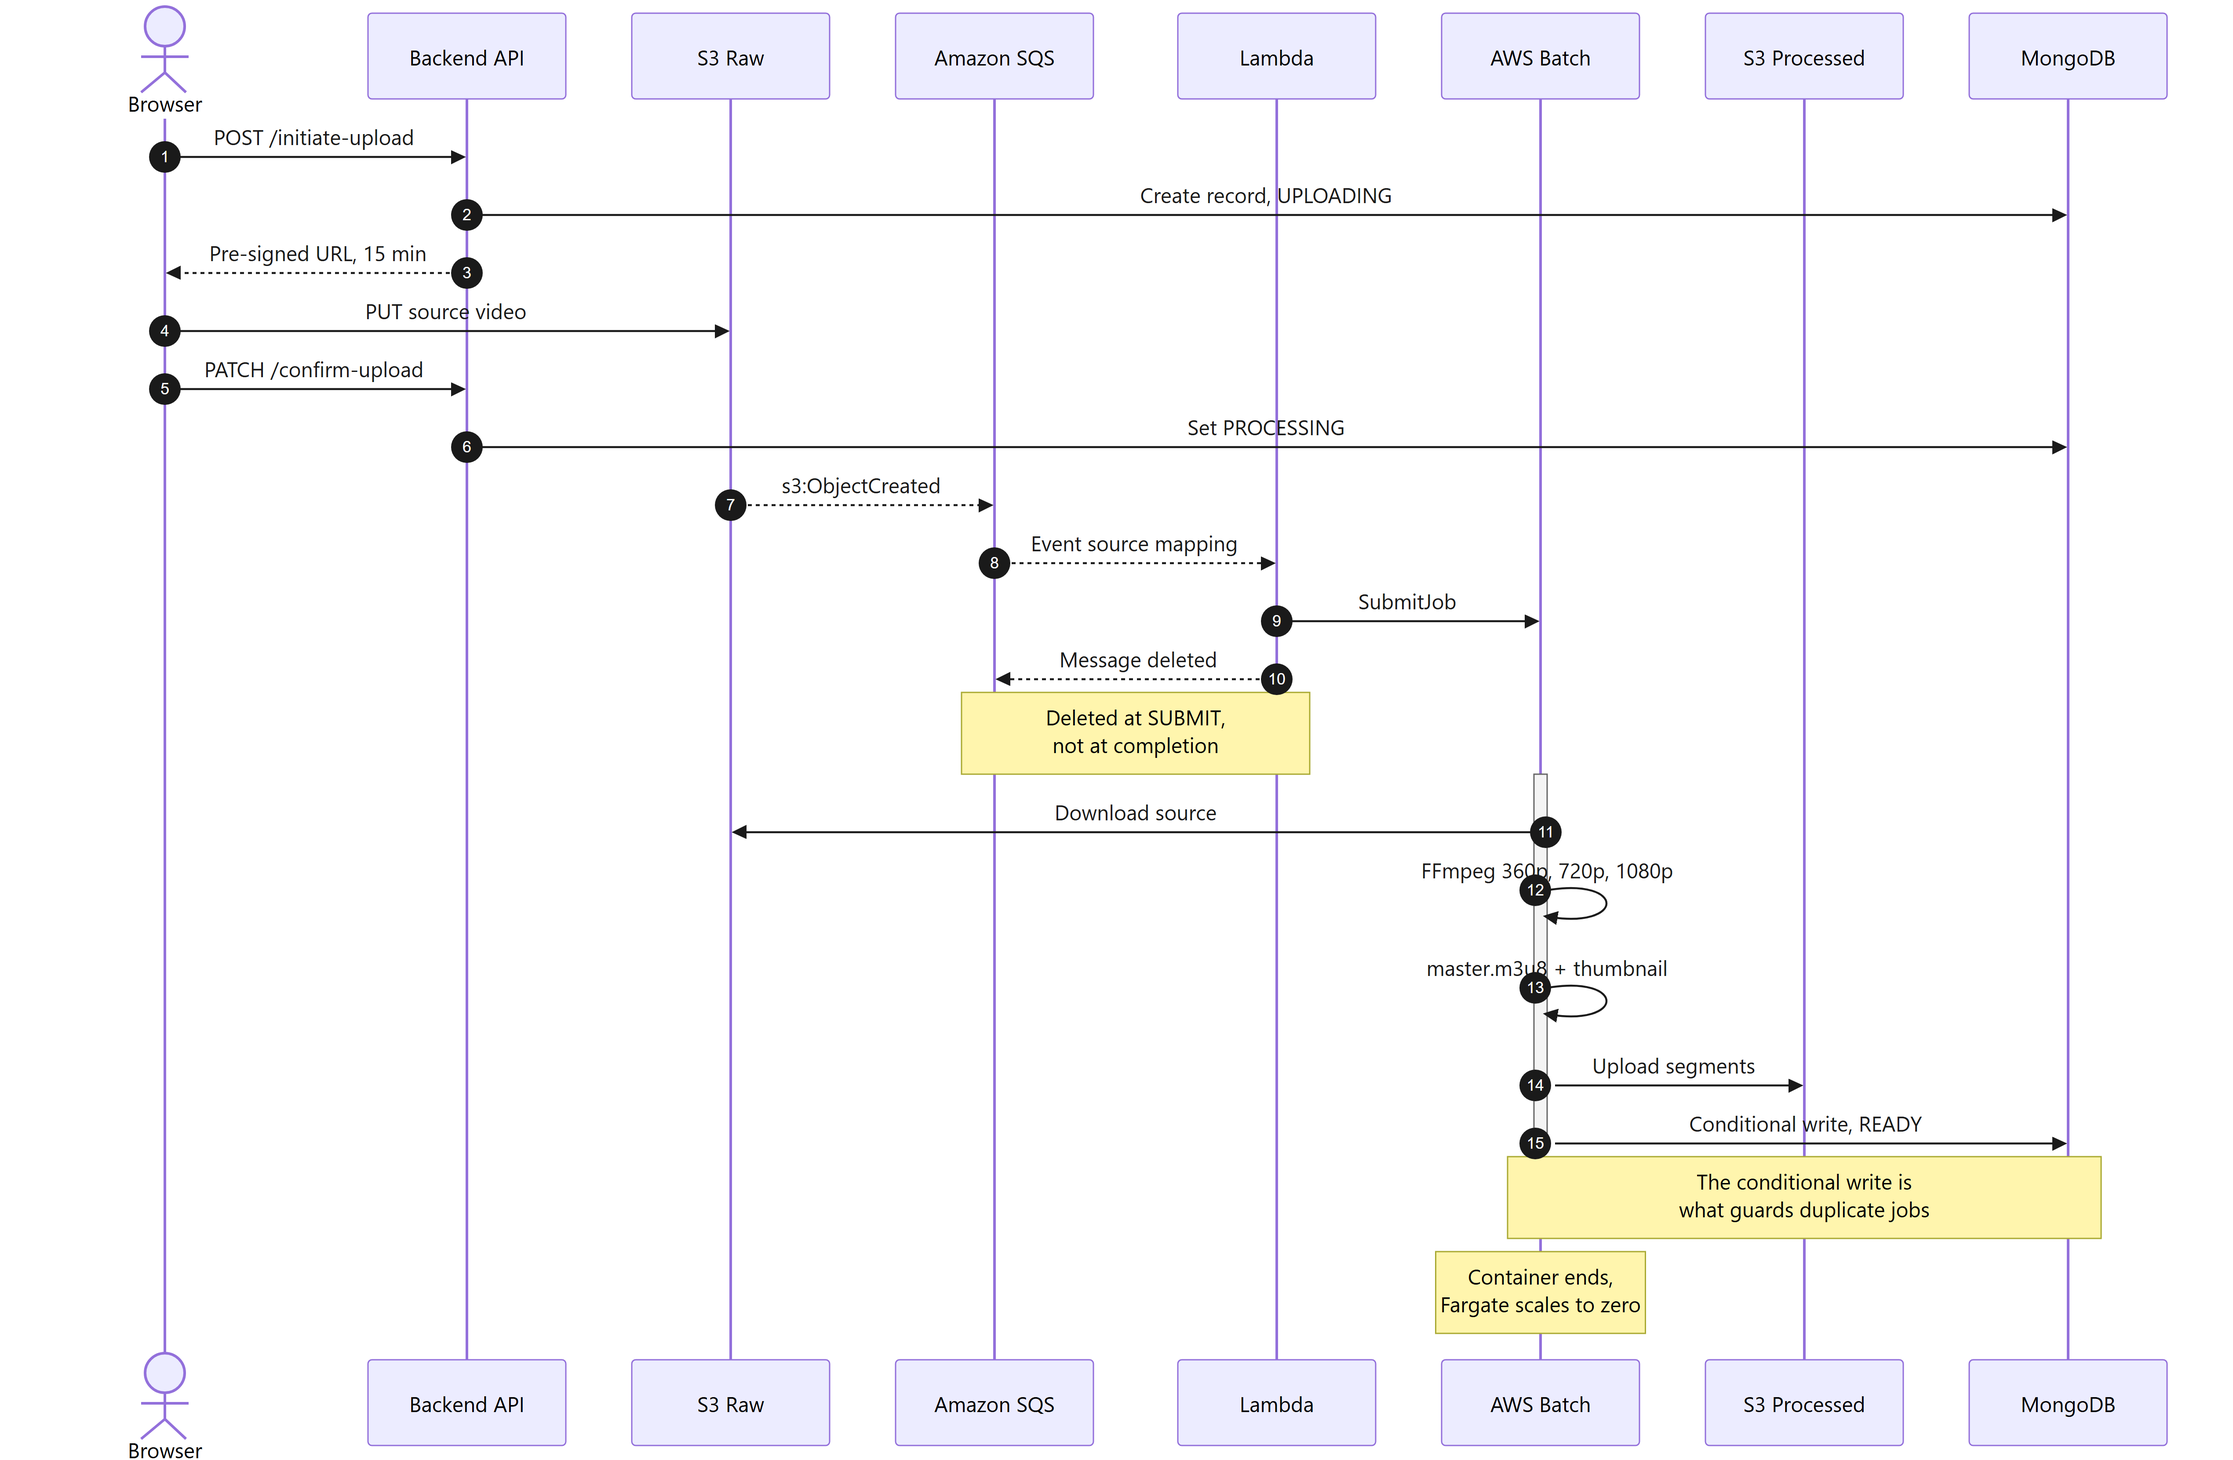
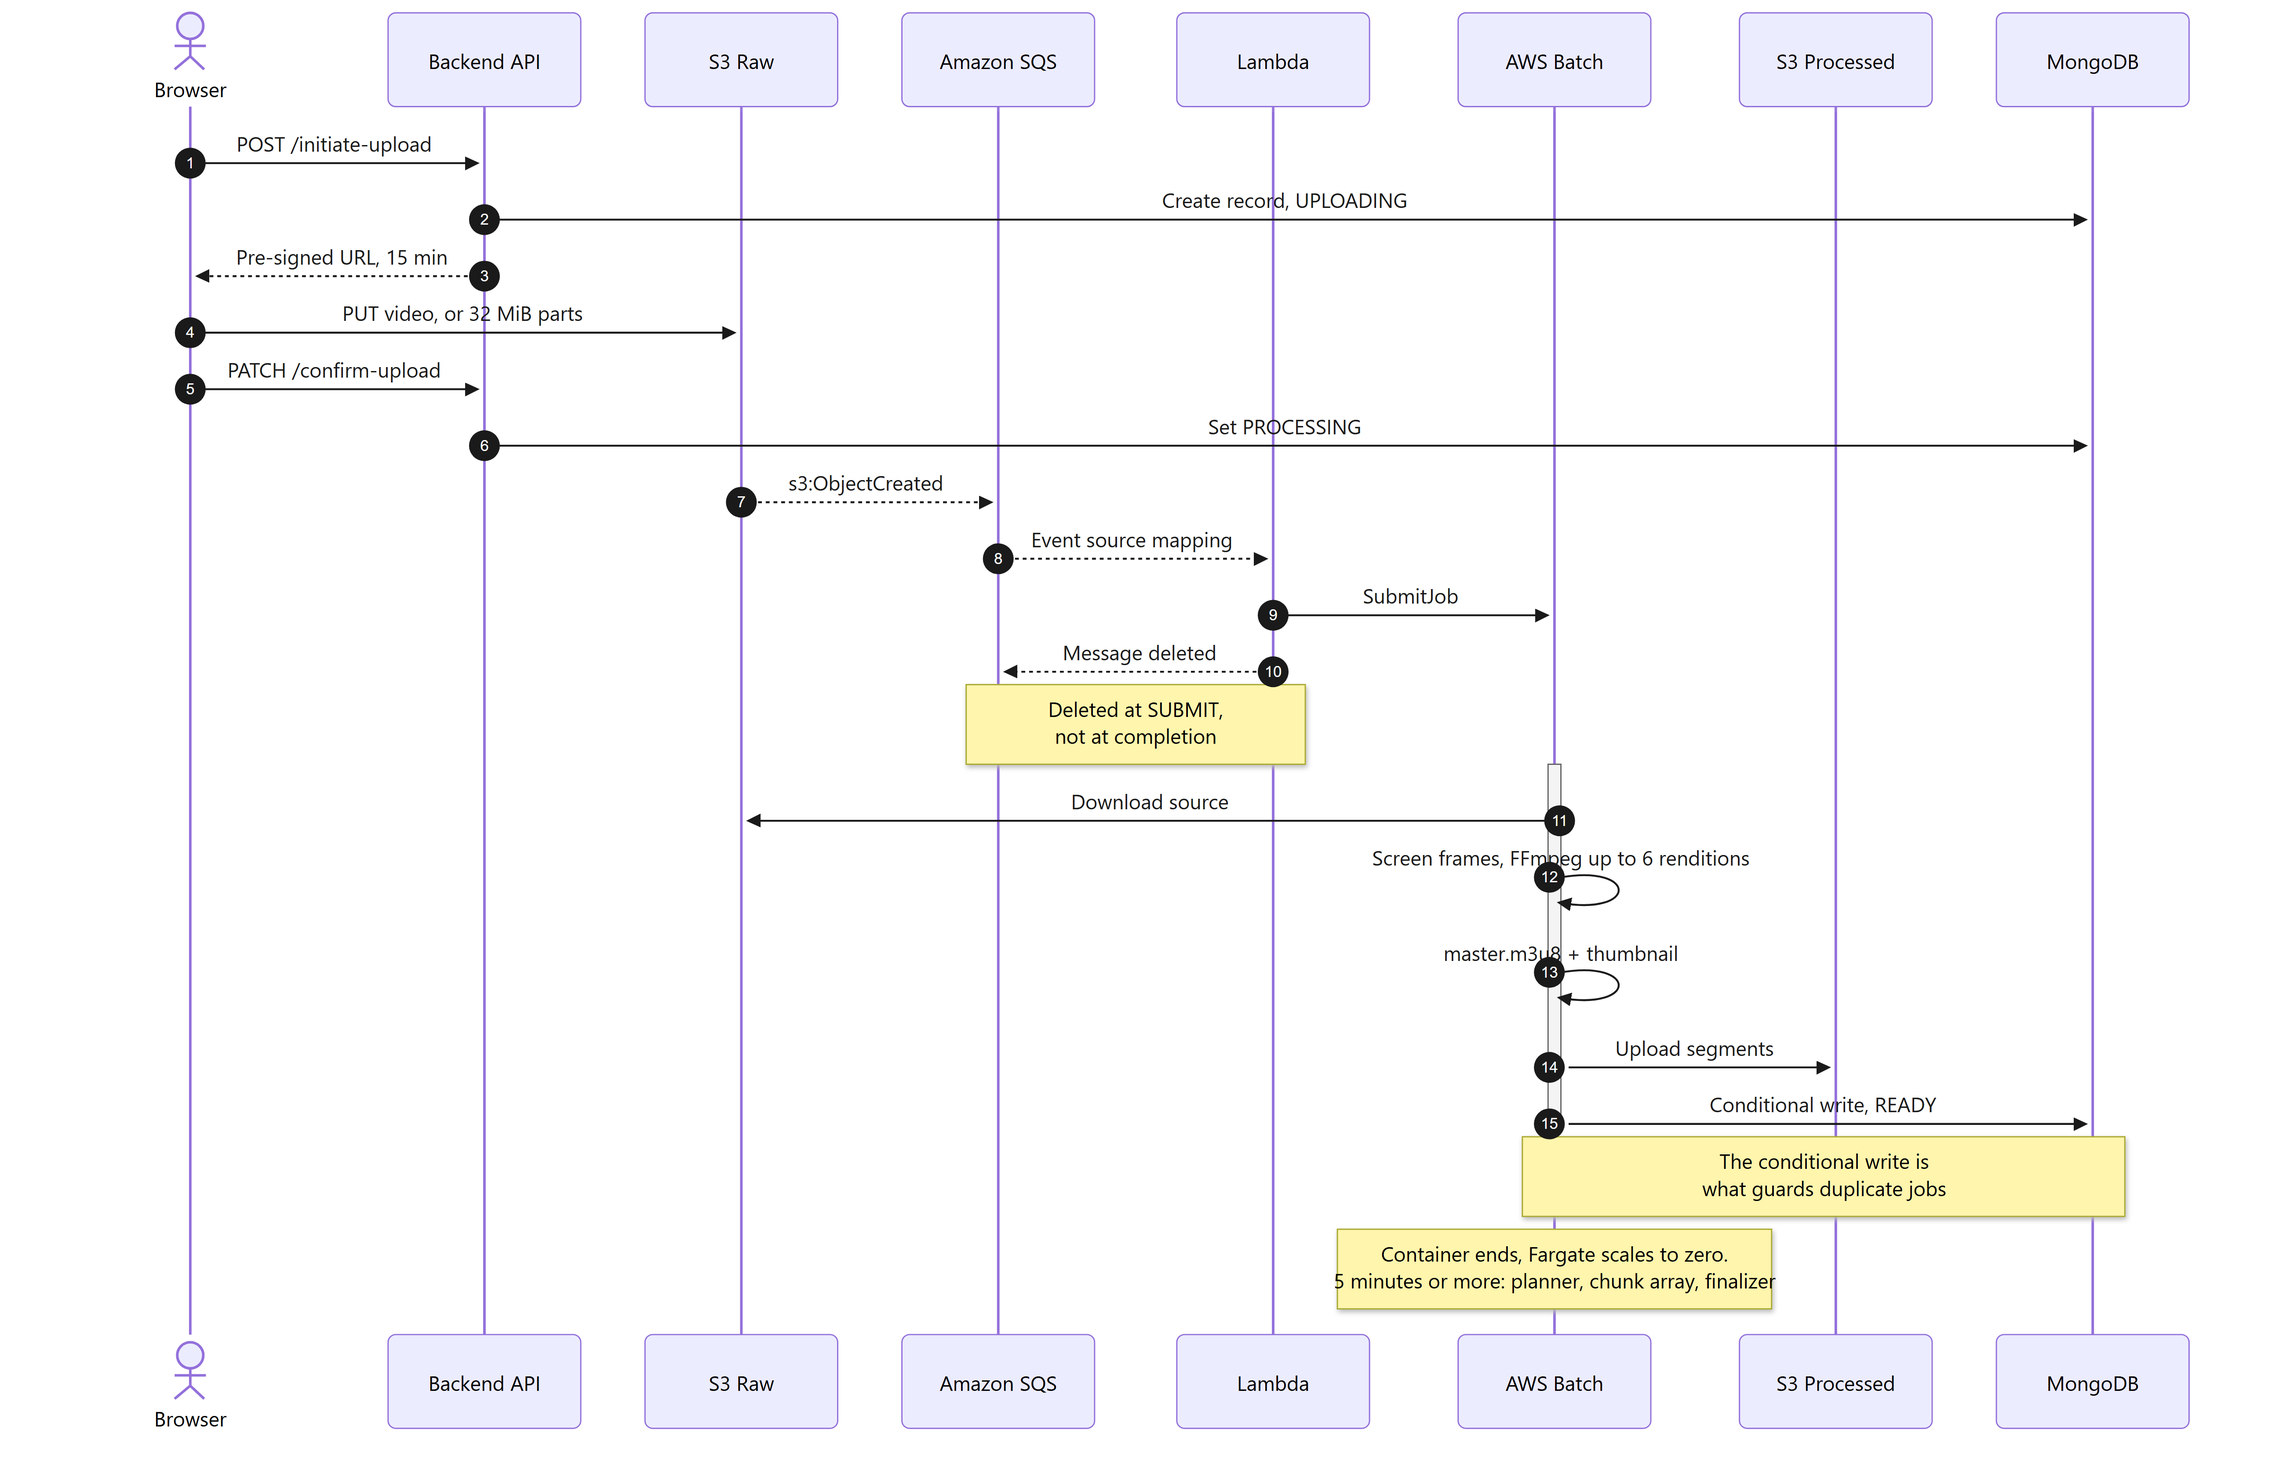
docs(report): multipart upload and the chunked transcoding path in chapters 3, 4 and 5
The report described one container per video and a single pre-signed
upload capped at two gigabytes. Chapter 4 gains subsections on large
uploads and on the planner, audio, chunk and finalizer jobs (with a
table of the four job types); chapter 5 gains the matching
implementation paragraphs and the real upload ceiling. FR-03 and UC-07
mention the multipart path, the sequence diagram shows screening, six
renditions and the chunked path, and the abstract and chapter 1 state
the long-video result (135 minutes for four hours at 8 vCPU).

diff --git a/report/chapters/chap4.tex b/report/chapters/chap4.tex
@@ -41,7 +41,8 @@ initiates an upload until the video becomes available.
 \begin{sidewaysfigure}
 \centering
 \includegraphics[width=\textheight]{images/02-transcoding-sequence.png}
-\caption{\textit{Sequence diagram of the event-driven transcoding pipeline}}
+\caption{\textit{Sequence diagram of the event-driven transcoding pipeline for one container;
+a video of five minutes or more takes the chunked path of Table~\ref{tab:chunked-jobs}}}
 \label{fig:sequence}
 \end{sidewaysfigure}
 
@@ -88,6 +89,75 @@ Batch. Recording which of the two modes the evaluated system actually executes m
 because a mechanism present in the source but absent from the deployed path cannot be credited
 with the guarantees it would provide if it ran. Section~\ref{sec:challenges} draws the same
 distinction about content protection.
+
+\subsection{Upload of Large Files}
+\label{sec:upload-design}
+
+The sequence of Figure~\ref{fig:sequence} uses one pre-signed request, which suits files up to a
+few hundred megabytes. For larger files the design switches to a multipart upload, because a single
+transfer that fails near its end must be repeated in full and Amazon S3 accepts at most 5~GiB in one
+request. The backend chooses the path from the declared size: a file of up to 512~MiB is sent with
+one pre-signed POST, and a larger file is divided into parts of 32~MiB.
+
+Both paths keep the property that motivated direct upload, that the payload never passes through
+the application server, and both keep the limits enforced by the storage service and not by the
+client. For the single request, the signed policy fixes the object key, the content type and the
+size range. For a multipart upload the backend signs one URL per part for exactly that part's
+length, so S3 itself refuses a part of any other size, and when the client reports the upload
+complete the backend lists the parts that S3 holds and checks them before it asks S3 to assemble
+the object. The ceiling on the size of a file is a configuration value, with a hard limit of
+20~GiB in the source, which is 640 parts of 32~MiB, and 20~GiB in the deployed system. An upload that
+is abandoned is cleaned up in two ways: a lifecycle rule aborts incomplete multipart uploads after
+two days, and a periodic reconciler in the backend removes a draft that has stayed in the
+\texttt{UPLOADING} state for more than a day.
+
+\subsection{Chunk-Parallel Transcoding of Long Videos}
+\label{sec:chunked-design}
+
+The pipeline of Figure~\ref{fig:sequence} gives each video to one container. That is adequate for
+short videos and fails for long ones: on a single vCPU, FFmpeg ran between four and five times
+slower than real time in the measurements of Section~\ref{sec:chunked-evaluation}, so a long source
+would exceed the two-hour limit placed on a job however many vCPUs the account holds. The design
+therefore divides a video of five minutes or more into chunks that are encoded concurrently, and
+keeps the single-container path for shorter videos, where splitting costs more than it saves.
+
+The job that the Lambda submitter starts becomes a planner. It reads the structure of the source
+over HTTP without downloading it and divides the video at boundaries that are whole multiples of a
+six-second group of pictures, counted in frames so that a rate such as 29.97 frames per second does
+not accumulate a fractional error. It then submits the jobs of Table~\ref{tab:chunked-jobs} to the
+same AWS Batch service.
+
+\begin{table}[H]
+\centering
+\caption{Jobs of the chunked path}
+\label{tab:chunked-jobs}
+\small
+\begin{tabularx}{\textwidth}{p{0.14\textwidth} p{0.17\textwidth} p{0.16\textwidth} X}
+\toprule
+\textbf{JOB} & \textbf{COUNT} & \textbf{TASK SIZE} & \textbf{RESPONSIBILITY} \\
+\midrule
+Planner   & 1 & Default & Probes the source, computes the chunk boundaries, and submits the other jobs \\
+Audio     & 2 & Default & Encodes the audio once for the whole video, one job per bitrate (64 and 128~kbit/s) \\
+Chunk     & One per chunk, as an array job & 4~vCPU, 8~GiB & Reads its own range of the source over HTTP and encodes every rendition of the ladder for that range \\
+Finalizer & 1 & Default & Runs after every chunk has ended; joins the playlists, measures the bandwidth of each rendition from the segments, extracts the thumbnail, screens the content, and sets \texttt{READY} \\
+\bottomrule
+\end{tabularx}
+\end{table}
+
+Three properties of this design are deliberate. The chunk array goes to a second, lower-priority
+job queue that shares the Fargate Spot environment of the main queue, so that a short video
+submitted while a long one is encoding is scheduled ahead of its remaining chunks and does not wait
+for all of them. The number of chunks follows the number of tasks that can run at once, about three
+chunks per slot and none shorter than about a minute, so a larger quota produces smaller chunks.
+And the planner declines to split a source that cannot be split safely, which means a variable frame
+rate, an unknown duration, or audio and video that differ by more than 0.25~seconds; such a video
+falls back to the single-container path and is not failed.
+
+While a chunked video is encoding, its child jobs periodically touch the \texttt{updatedAt} field
+of the video. The reconciler that returns a video stuck in \texttt{PROCESSING} for more than six
+hours to a consistent state would otherwise mistake a long and healthy encode for a stuck one. How
+this path behaves, including where adding vCPUs stops helping, is measured in
+Section~\ref{sec:chunked-evaluation}.
 
 \section{Database Design}
 \label{sec:database-design}

diff --git a/report/chapters/chap5.tex b/report/chapters/chap5.tex
@@ -18,7 +18,12 @@ The upload flow validates metadata on the server before issuing a pre-signed URL
 validation alone is insufficient, since a user can call the API directly and obtain a URL for
 an arbitrary file, effectively turning the project's storage bucket into free hosting for
 unrelated content. The server therefore checks the declared MIME type against an allow-list of
-video formats and rejects files exceeding two gigabytes.
+video formats and rejects files above the configured ceiling, which has a hard limit of 20~GiB in
+the source and is set to 20~GiB in the deployed system. Files up to 512~MiB go through a single
+pre-signed POST whose policy fixes the object key, the content type and the size range. Larger
+files use an S3 multipart upload in parts of 32~MiB: the backend signs one URL per part for exactly
+that part's length, so the storage service itself refuses a part of any other size, and on
+completion it lists the parts that S3 holds before asking for the object to be assembled.
 
 Several protective measures were added at the HTTP layer. Security headers are applied through
 Helmet. Cross-origin requests are restricted to an explicit allow-list rather than being
@@ -74,6 +79,19 @@ Section~\ref{sec:qoe-playback} examines in detail, and the codec string is read 
 stream's sequence parameter set, since the constraint-set byte that RFC~6381 requires appears in
 neither the profile name nor the level number reported by a probe. A thumbnail is extracted in a
 separate pass.
+
+The chunked path of Section~\ref{sec:chunked-design} runs the same container image under four
+commands. The planner computes the chunk boundaries with functions that perform no input or output,
+so the arithmetic can be tested directly: a boundary is a whole number of groups of pictures counted
+in frames, and every chunk, the first included, writes its timestamps from the same base offset, so
+that the playlists of independently encoded chunks join without a gap or a repeated segment. A chunk
+job reads only its own range of the source over HTTP and encodes every rendition of the ladder for
+it. The finalizer joins the playlists and, as the single-container path does, measures the bandwidth
+of each rendition from the segments and not from the encoder settings. Chunk jobs are submitted with
+a task size of their own, 4~vCPU and 8~GiB, because a four-vCPU task measured 14\% faster and used
+7\% fewer vCPU-seconds than a one-vCPU task; the size is checked against the table of valid Fargate
+combinations when the configuration is loaded, since Batch would otherwise reject the submission
+only after the video had been marked as processing.
 
 Failure handling is deliberate. When FFmpeg exits with a non-zero status, the error propagates
 to the top-level handler, which records the \texttt{ERROR} status in the database and, in

diff --git a/report/chapters/chap3.tex b/report/chapters/chap3.tex
@@ -33,7 +33,7 @@ the design and implementation chapters.
 \midrule
 FR-01 & Registration and login & Users register with a username, email address, and password. Authentication uses JSON Web Tokens carried in the Authorization header. \\
 FR-02 & Password recovery & Users request a reset link by email; the token is single-use and expires after fifteen minutes. \\
-FR-03 & Direct upload to S3 & The client requests a pre-signed URL from the backend and transfers the file directly to Amazon S3 without routing the payload through the application server. \\
+FR-03 & Direct upload to S3 & The client requests a pre-signed URL from the backend and transfers the file directly to Amazon S3 without routing the payload through the application server. A file above 512~MiB is transferred in parts of 32~MiB, so that a part that fails is retried without repeating the whole file. \\
 FR-04 & Automatic transcoding & Once the upload completes, the system transcodes the source into HLS renditions without any manual trigger. \\
 FR-05 & Adaptive playback & The player switches automatically among the renditions produced for the video, chosen from six rungs between 144p and 1080p according to the source resolution, as the available bandwidth changes. \\
 FR-06 & Visibility control & Each video is public, unlisted, or private. A public video is listed in the catalogue; an unlisted one is reachable only by its direct link and appears in no listing; a private one is visible to its owner alone. The owner can change the setting after upload. \\
@@ -130,7 +130,7 @@ Main flow &
   4. The browser transfers the file directly to the raw S3 bucket. \newline
   5. The client confirms completion and the record moves to \texttt{PROCESSING}. \newline
   6. The transcoding pipeline runs asynchronously and eventually sets the record to \texttt{READY}. \\
-Alternative flow & If the file type is not an accepted video format or the size exceeds the limit, the server rejects the request before issuing a URL, and no orphan record is created. \\
+Alternative flow & If the file type is not an accepted video format or the size exceeds the limit, the server rejects the request before issuing a URL, and no orphan record is created. For a file larger than 512~MiB, step 3 returns a URL for each part of 32~MiB instead, and the server checks the stored parts before the object is assembled. \\
 Postcondition & The video appears on the user's channel, initially as processing and subsequently as ready to play. \\
 \bottomrule
 \end{tabularx}

diff --git a/report/frontmatter/abstract.tex b/report/frontmatter/abstract.tex
@@ -17,7 +17,9 @@ is buffered in Amazon SQS and dispatched by an AWS Lambda job submitter to AWS B
 running on AWS Fargate. A container packaging FFmpeg is created only when there is work to
 do, produces up to six renditions from 144p to 1080p together with a master playlist and
 a thumbnail, uploads the result to a processed bucket, updates the metadata in MongoDB
-Atlas, and then terminates. Content is delivered through Amazon CloudFront with Origin
+Atlas, and then terminates. A video of five minutes or more is divided at group-of-pictures
+boundaries and encoded by an array of parallel jobs; a four-hour source reached playback 135
+minutes after its upload finished at 8~vCPU. Content is delivered through Amazon CloudFront with Origin
 Access Control, and every stream is gated at the edge by CloudFront Signed Cookies, so that a
 viewer without a valid signature is rejected even when they know the exact manifest URL; a
 video's visibility setting governs who the backend will issue those cookies to, not whether
@@ -32,7 +34,7 @@ request whenever a fixable critical vulnerability is detected.
 The system is evaluated along four dimensions: quality of experience, measured both as
 Time-to-First-Frame and, by driving the deployed player in a headless browser under emulated
 network conditions, as rebuffering ratio, bitrate switching and the bitrate a viewer actually
-receives; transcoding pipeline latency across 100~MB, 500~MB, and 1~GB inputs,
+receives; transcoding pipeline latency across 100~MB, 500~MB, and 1~GB inputs and for videos of up to four hours,
 scalability under a concurrent upload stress test, and operating cost compared against a
 traditional always-on Amazon EC2 deployment. The cost analysis shows that, for the
 architecture-dependent portion of the bill, the serverless approach removes almost all idle

diff --git a/report/chapters/chap1.tex b/report/chapters/chap1.tex
@@ -138,7 +138,9 @@ service in between; a containerised FFmpeg worker whose conditional database wri
 duplicate delivery harmless, so that exactly-once \emph{effects} are obtained without relying on
 exactly-once delivery; a two-layer content protection scheme combining Origin Access Control with
 CloudFront Signed Cookies so that private videos remain inaccessible even to a viewer holding
-the exact manifest URL; a complete Infrastructure as Code description of the AWS environment
+the exact manifest URL; a chunk-parallel transcoding path that splits a video of five minutes or
+more across concurrent jobs and brings a four-hour source to playback in 135 minutes at the
+production quota; a complete Infrastructure as Code description of the AWS environment
 in thirteen Terraform modules; and a DevSecOps pipeline whose security gate genuinely blocks
 merges rather than merely reporting findings.
 
